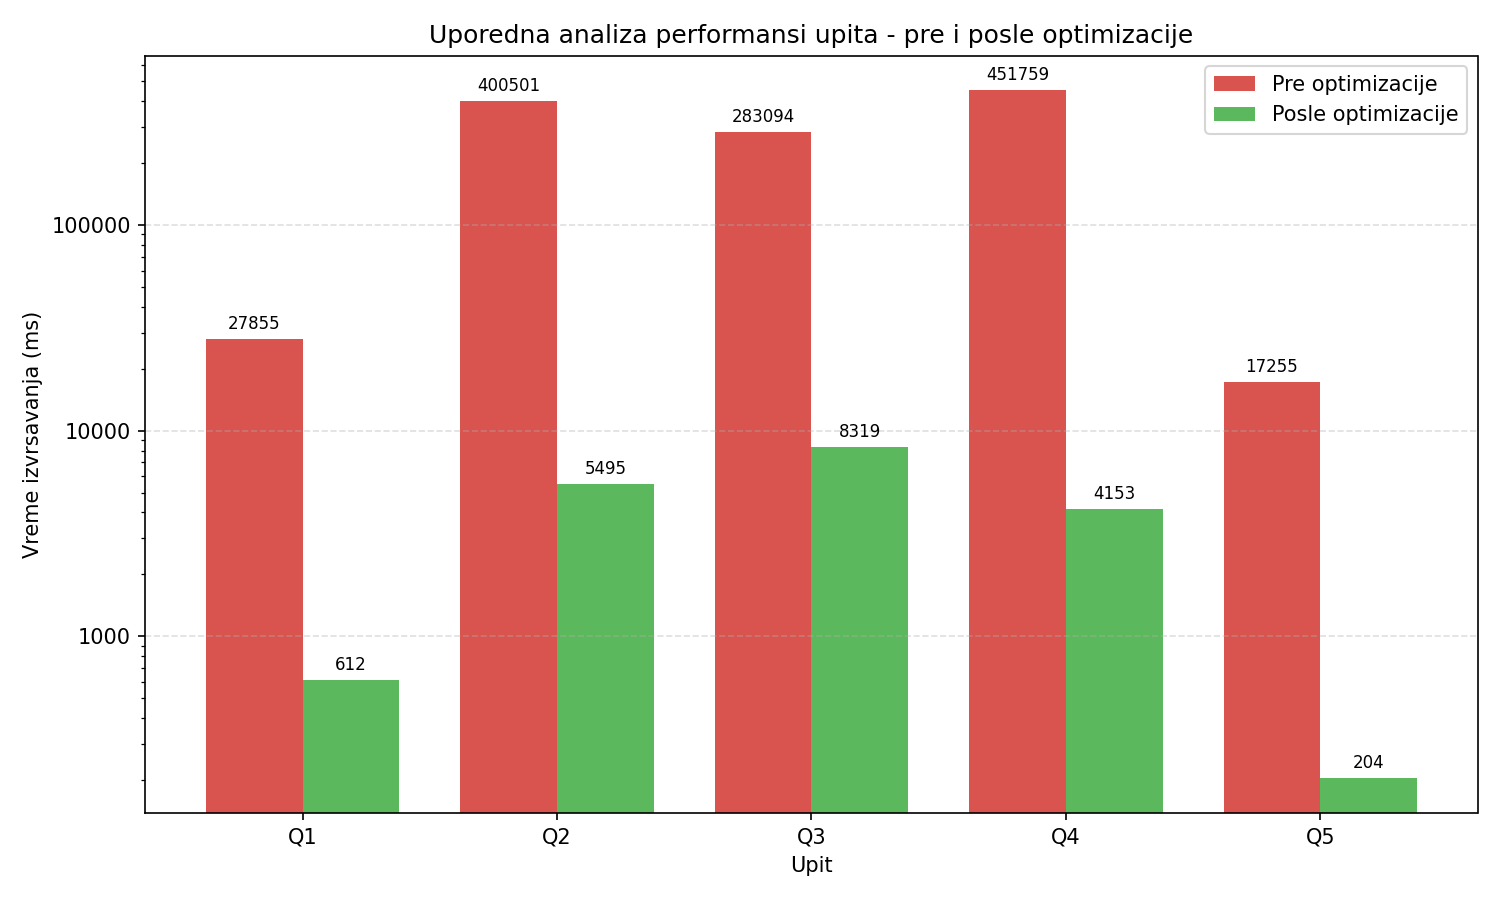
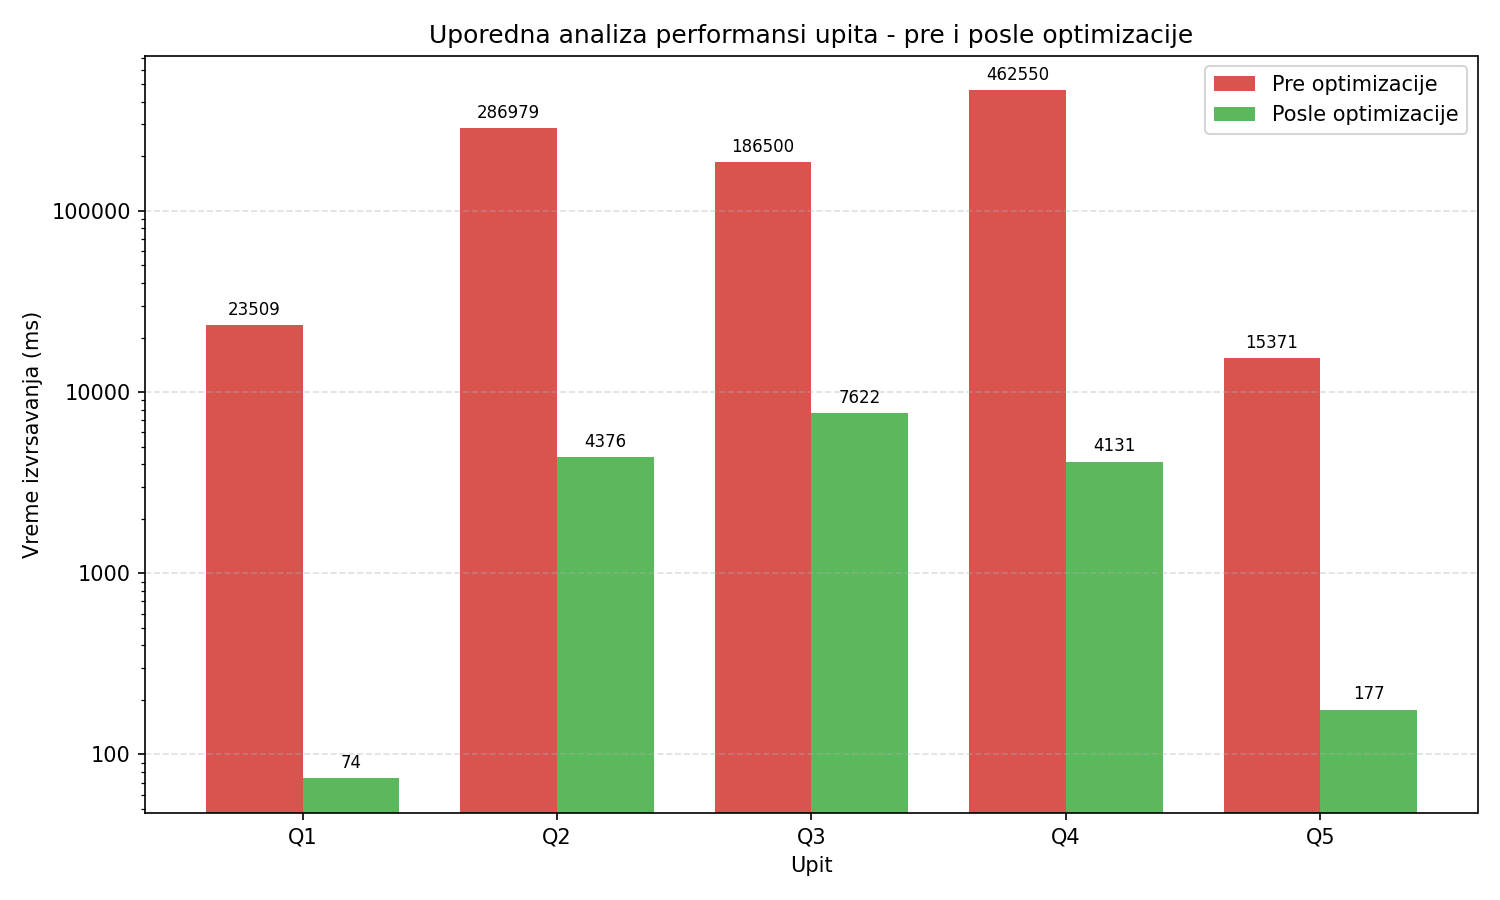
--provera ya resturkturianje seme i krajnji rez

diff --git a/scripts/provera_denorm.py b/scripts/provera_denorm.py
@@ -1,0 +1,11 @@
+from pymongo import MongoClient
+db = MongoClient("mongodb://localhost:27017")["rt_analytics"]
+
+# uzmi jedan film i pogledaj strukturu
+doc = db.movies_with_stats.find_one({"reviewCount": {"$gt": 50}})
+print("Polja:", list(doc.keys()))
+print("reviewCount:", doc.get("reviewCount"))
+print("freshCount:", doc.get("freshCount"))
+print("rottenCount:", doc.get("rottenCount"))
+print("avgReviewScore:", doc.get("avgReviewScore"))
+print("Broj ugnjezdenih recenzija:", len(doc.get("reviews", [])))

diff --git a/results/performance_comparison.md b/results/performance_comparison.md
@@ -1,9 +1,9 @@
 # Uporedna analiza performansi - pre i posle optimizacije
 
-| Upit | Pre optimizacije (ms) | Posle optimizacije (ms) | Poboljšanje (%) | DocsExamined pre | DocsExamined posle |
-|---|---|---|---|---|---|
-| Mina_Q1_zanrovi_najvisi_tomatometer | 27855 | 612 | 97.8% | 3145452 | 15334 |
-| Mina_Q2_publikacije_aktivnost | 400501 | 5495 | 98.6% | 4304072 | 138154 |
-| Mina_Q3_top_kriticari_odstupanje | 283094 | 8319 | 97.1% | 3867704 | 283374 |
-| Mina_Q4_ocene_po_deceniji | 451759 | 4153 | 99.1% | 4304072 | 61002 |
-| Mina_Q5_raskorak_kritika_publika | 17255 | 204 | 98.8% | 3145452 | 30088 |
+| Upit | Pre optimizacije (ms) | Posle optimizacije (ms) | DocsExamined pre | DocsExamined posle |
+|---|---|---|---|---|
+| Mina_Q1_zanrovi_najvisi_tomatometer | 23509 | 74 | 3145452 | 15334 |
+| Mina_Q2_publikacije_aktivnost | 286979 | 4376 | 4304072 | 138154 |
+| Mina_Q3_top_kriticari_odstupanje | 186500 | 7622 | 3867704 | 283374 |
+| Mina_Q4_ocene_po_deceniji | 462550 | 4131 | 4304072 | 61002 |
+| Mina_Q5_raskorak_kritika_publika | 15371 | 177 | 3145452 | 30088 |